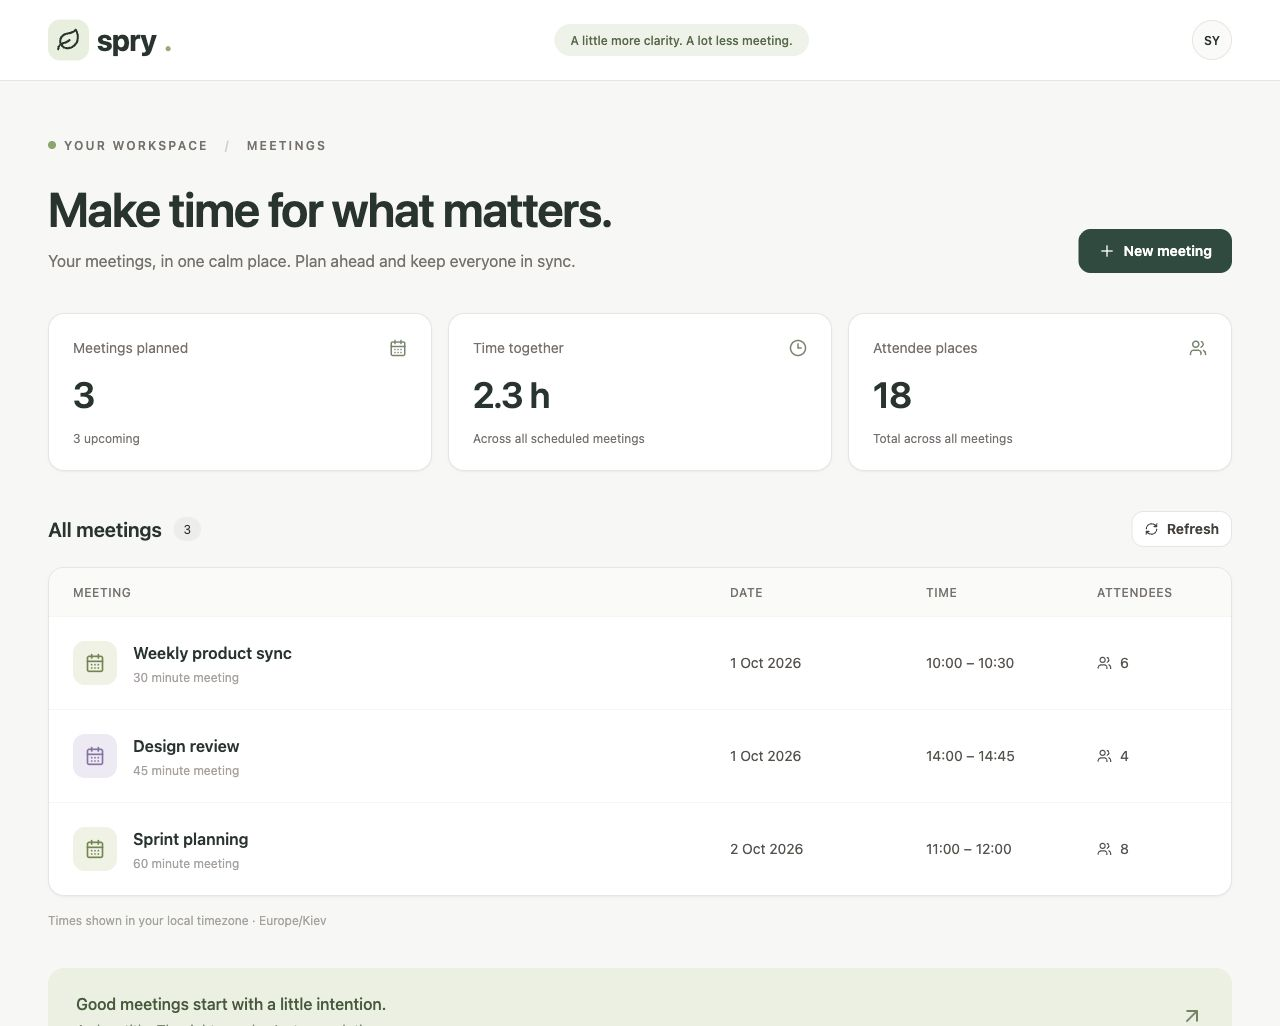
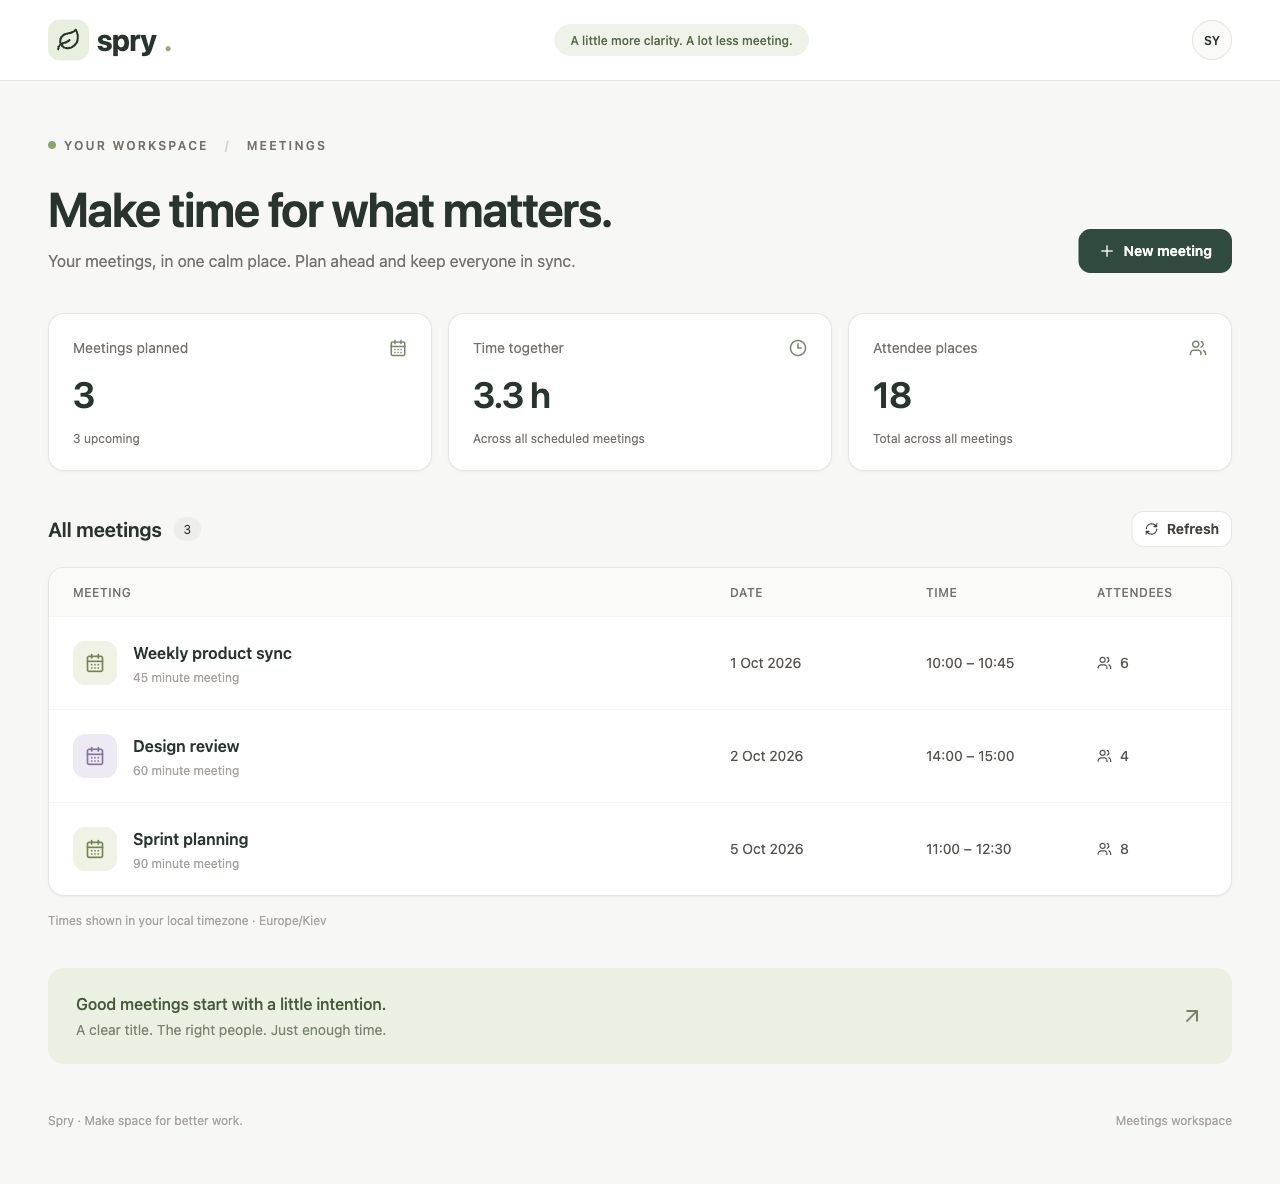
Fix immutable GitHub OIDC trust and document verified AWS deployment

diff --git a/docs/SUBMISSION.md b/docs/SUBMISSION.md
@@ -1,16 +1,26 @@
-# Що залишилось для здачі
+# Матеріали для здачі
 
-- [x] Клонувати https://github.com/dobosevych/OneTwoThree зі збереженням history; підготувати окрему лабораторну гілку.
-- [x] Push у власний GitHub repository.
-- [ ] Дати викладачу доступ до private repository (потрібен його GitHub username).
-- [x] Failed lint run: [red](https://github.com/FourShrimp2032/spry/actions/runs/36719971295); після виправлення: [green](https://github.com/FourShrimp2032/spry/actions/runs/36720151761).
-- [ ] Надати Lab 1 reference image для точного відтворення дизайну.
-- [ ] Налаштувати AWS resources, OIDC і domain; deploy із main.
-- [ ] Додати реальні HTTPS frontend/backend URL.
-- [x] Screenshot перевіреного frontend: [meetings-screenshot.jpg](meetings-screenshot.jpg).
+- Repository: https://github.com/FourShrimp2032/spry (private).
+- Frontend HTTPS: https://d310vkwtz8a1f0.cloudfront.net
+- Backend HTTPS: https://d310vkwtz8a1f0.cloudfront.net/api/meetings
+- Health: https://d310vkwtz8a1f0.cloudfront.net/health
+- Screenshot реального AWS frontend: [meetings-screenshot.jpg](meetings-screenshot.jpg).
+- [Успішний deploy через OIDC](https://github.com/FourShrimp2032/spry/actions/runs/36727682803/attempts/2).
 
-GitHub URL: https://github.com/FourShrimp2032/spry (private).
-Frontend HTTPS URL: ще не розгорнуто.
-Backend HTTPS URL: ще не розгорнуто.
+## Виконано
 
-Не підміняти ці поля localhost або вигаданими адресами.
+- [x] Клон course repository зі збереженням Git history, власний GitHub repository.
+- [x] PROJECT.md перед генерацією коду, monorepo, Docker Compose, API та UI.
+- [x] Перевірено створення зустрічей та збереження після reload локально й на AWS.
+- [x] Ruff, ESLint, Prettier, 14 backend tests, frontend build, infrastructure validation.
+- [x] Навмисно невдалий lint [red](https://github.com/FourShrimp2032/spry/actions/runs/36719971295) і [green після виправлення](https://github.com/FourShrimp2032/spry/actions/runs/36720151761).
+- [x] S3/CloudFront, ECR/ECS Fargate/ALB, private RDS, OIDC для конкретного repository/main, Makefile deploy.
+- [x] HTTPS на тимчасовій AWS адресі, screenshot із трьома демонстраційними зустрічами.
+
+## Для повної відповідності завданню
+
+- [ ] Власний домен із DNS/ACM, окремі app/api адреси та ALB HTTPS listener. Наразі власного домену немає; CloudFront → ALB використовує HTTP з обмеженням за secret origin header. Це не виконання вимоги own domain.
+- [ ] Доступ викладача до private repository — потрібен його GitHub username.
+- [ ] Точне порівняння дизайну з Lab 1 — reference image не надано.
+
+Подальший push до main автоматично запускає перевірки й deployment. Ресурси AWS залишаються активними та можуть тарифікуватися; teardown описано у [AWS.md](AWS.md).

diff --git a/PROJECT.md b/PROJECT.md
@@ -29,7 +29,7 @@ Local database credentials are development-only defaults. Database loss after st
 ## Delivery extension required by the second half of the lab
 - `.github/workflows/`: push/PR lint, API integration tests and frontend build; deployment on main after green checks, using GitHub OIDC.
 - `scripts/`: repeatable AWS deploy operations called by root Makefile, including a one-off ECS migration before service update.
-- `infra/`: ECS task and narrowly scoped GitHub OIDC trust templates; `aws-stack.json` defines the infrastructure for user-run CloudFormation provisioning; nothing is provisioned by the assistant.
+- `infra/`: ECS task and narrowly scoped GitHub OIDC trust templates; `aws-stack.json` defines the infrastructure for user-run CloudFormation provisioning; the stack is provisioned only with user authorization.
 - `docs/`: AWS setup, lab discussion answers, and submission checklist. No AWS credentials or account-specific invented values.
 Frontend delivery is static S3 + CloudFront with a private origin; backend delivery is ECR + ECS Fargate + ALB. Production PostgreSQL is persistent RDS with CA/hostname-verified TLS and reachable only from the backend security group. Production migrations run once per deploy, not in each web task. Deployment uses commit-SHA tags, health checks, HTTPS custom domains and configured ACM certificates.
 
@@ -37,4 +37,4 @@ Frontend delivery is static S3 + CloudFront with a private origin; backend deliv
 Source: https://github.com/dobosevych/OneTwoThree. Its existing back/front application includes authentication, participants, nginx and Lambda infrastructure outside this lab slice. The lab branch replaces those working-tree files with the specified backend/frontend structure; upstream history preserves the original. This avoids competing Compose files and duplicate pipelines.
 
 ## User-directed AWS setup (no domain yet)
-The user performs all AWS actions in Safari/CloudShell. `scripts/aws-preflight.sh` is read-only; `aws-create.sh` explicitly creates billable resources. CloudFormation starts ECS at desired count 0 with a bootstrap image reference; the first successful GitHub deploy installs a commit-SHA image and sets count 1. No NAT gateway. The initial CloudFront URL handles both frontend and uncached API paths; the CloudFront-to-ALB hop is HTTP with a secret origin header until custom-domain TLS is configured. This is an interim demo and does not satisfy the lab custom-domain/ALB-HTTPS requirement. Passwords are generated by Secrets Manager and injected into ECS; no key is sent to GitHub.
+The user initially chose manual Safari/CloudShell setup, then explicitly delegated AWS provisioning to the assistant. The manual scripts remain an alternative setup path. `scripts/aws-preflight.sh` is read-only; `aws-create.sh` explicitly creates billable resources. CloudFormation starts ECS at desired count 0 with a bootstrap image reference; the first successful GitHub deploy installs a commit-SHA image and sets count 1. No NAT gateway. The initial CloudFront URL handles both frontend and uncached API paths; the CloudFront-to-ALB hop is HTTP with a secret origin header until custom-domain TLS is configured. This is an interim demo and does not satisfy the lab custom-domain/ALB-HTTPS requirement. Passwords are generated by Secrets Manager and injected into ECS; no key is sent to GitHub.

diff --git a/docs/VALIDATION.md b/docs/VALIDATION.md
@@ -7,8 +7,17 @@
 - Responsive UI: checked at 390px; no horizontal overflow.
 - Browser: created Weekly product sync, Design review and Sprint planning through the form; data remained after page reload.
 - Resilience: stopped local Postgres; GET /api/meetings returned HTTP 503 with the documented message; restarted Postgres and all 3 records returned again without an API restart.
-- Screenshot: `docs/meetings-screenshot.jpg` shows the running Docker application with those demonstration records. A fresh clone starts with an empty database.
-- CloudFormation template passed cfn-lint with no errors or warnings; AWS-side provisioning is not yet tested.
+- Local browser verification used three demonstration meetings. A fresh clone starts with an empty database.
+- CloudFormation template passed cfn-lint with no errors or warnings.
 - Deployment shell scripts passed bash syntax checks; Docker Compose config validated.
 
-AWS deployment has not been executed or verified. Account login, domain and initial resources are still needed. GitHub main checks passed; the intentional red-then-green demonstration is linked in SUBMISSION.md. Deployment was skipped because AWS_ROLE_ARN is not configured.
+## AWS verification — 2026-09-30
+
+- CloudFormation `spry-lab` in eu-north-1 created successfully; OIDC trust update completed.
+- GitHub [run 36727682803, attempt 2](https://github.com/FourShrimp2032/spry/actions/runs/36727682803/attempts/2): all checks and both deployment targets succeeded.
+- Initial attempt exposed the new immutable GitHub OIDC subject format. The exact owner/repository IDs now restrict trust to this repository's main branch; no wildcard was added.
+- Separate Alembic ECS migration task exited 0. Fargate web task became healthy behind ALB.
+- Public HTTPS `/health` returned 200 with `{"status":"ok"}`; `/api/meetings` returned 200.
+- Browser on https://d310vkwtz8a1f0.cloudfront.net created Weekly product sync, Design review and Sprint planning. All three remained after page reload; API returned the same records.
+- `docs/meetings-screenshot.jpg` is the actual CloudFront frontend after reload, with 3 meetings and 18 attendee places.
+- Frontend and API share the temporary CloudFront hostname. Own-domain DNS, ACM and ALB HTTPS listener remain outstanding; see SUBMISSION.md.

diff --git a/docs/AWS-CLICK-GUIDE.md b/docs/AWS-CLICK-GUIDE.md
@@ -1,6 +1,6 @@
 # AWS: покроково для Safari
 
-Усі дії в AWS виконує власник акаунта. Асистент готує код, перевіряє помилки та налаштовує свій GitHub repository; AWS access keys не потрібні.
+Це альтернативна інструкція для самостійного запуску з Safari. Для вже створеного stack `spry-lab` не запускайте create повторно. Подальші релізи виконує GitHub через OIDC; постійні AWS-ключі йому не потрібні.
 
 ## Етап 1 — лише перевірка, без створення ресурсів
 
